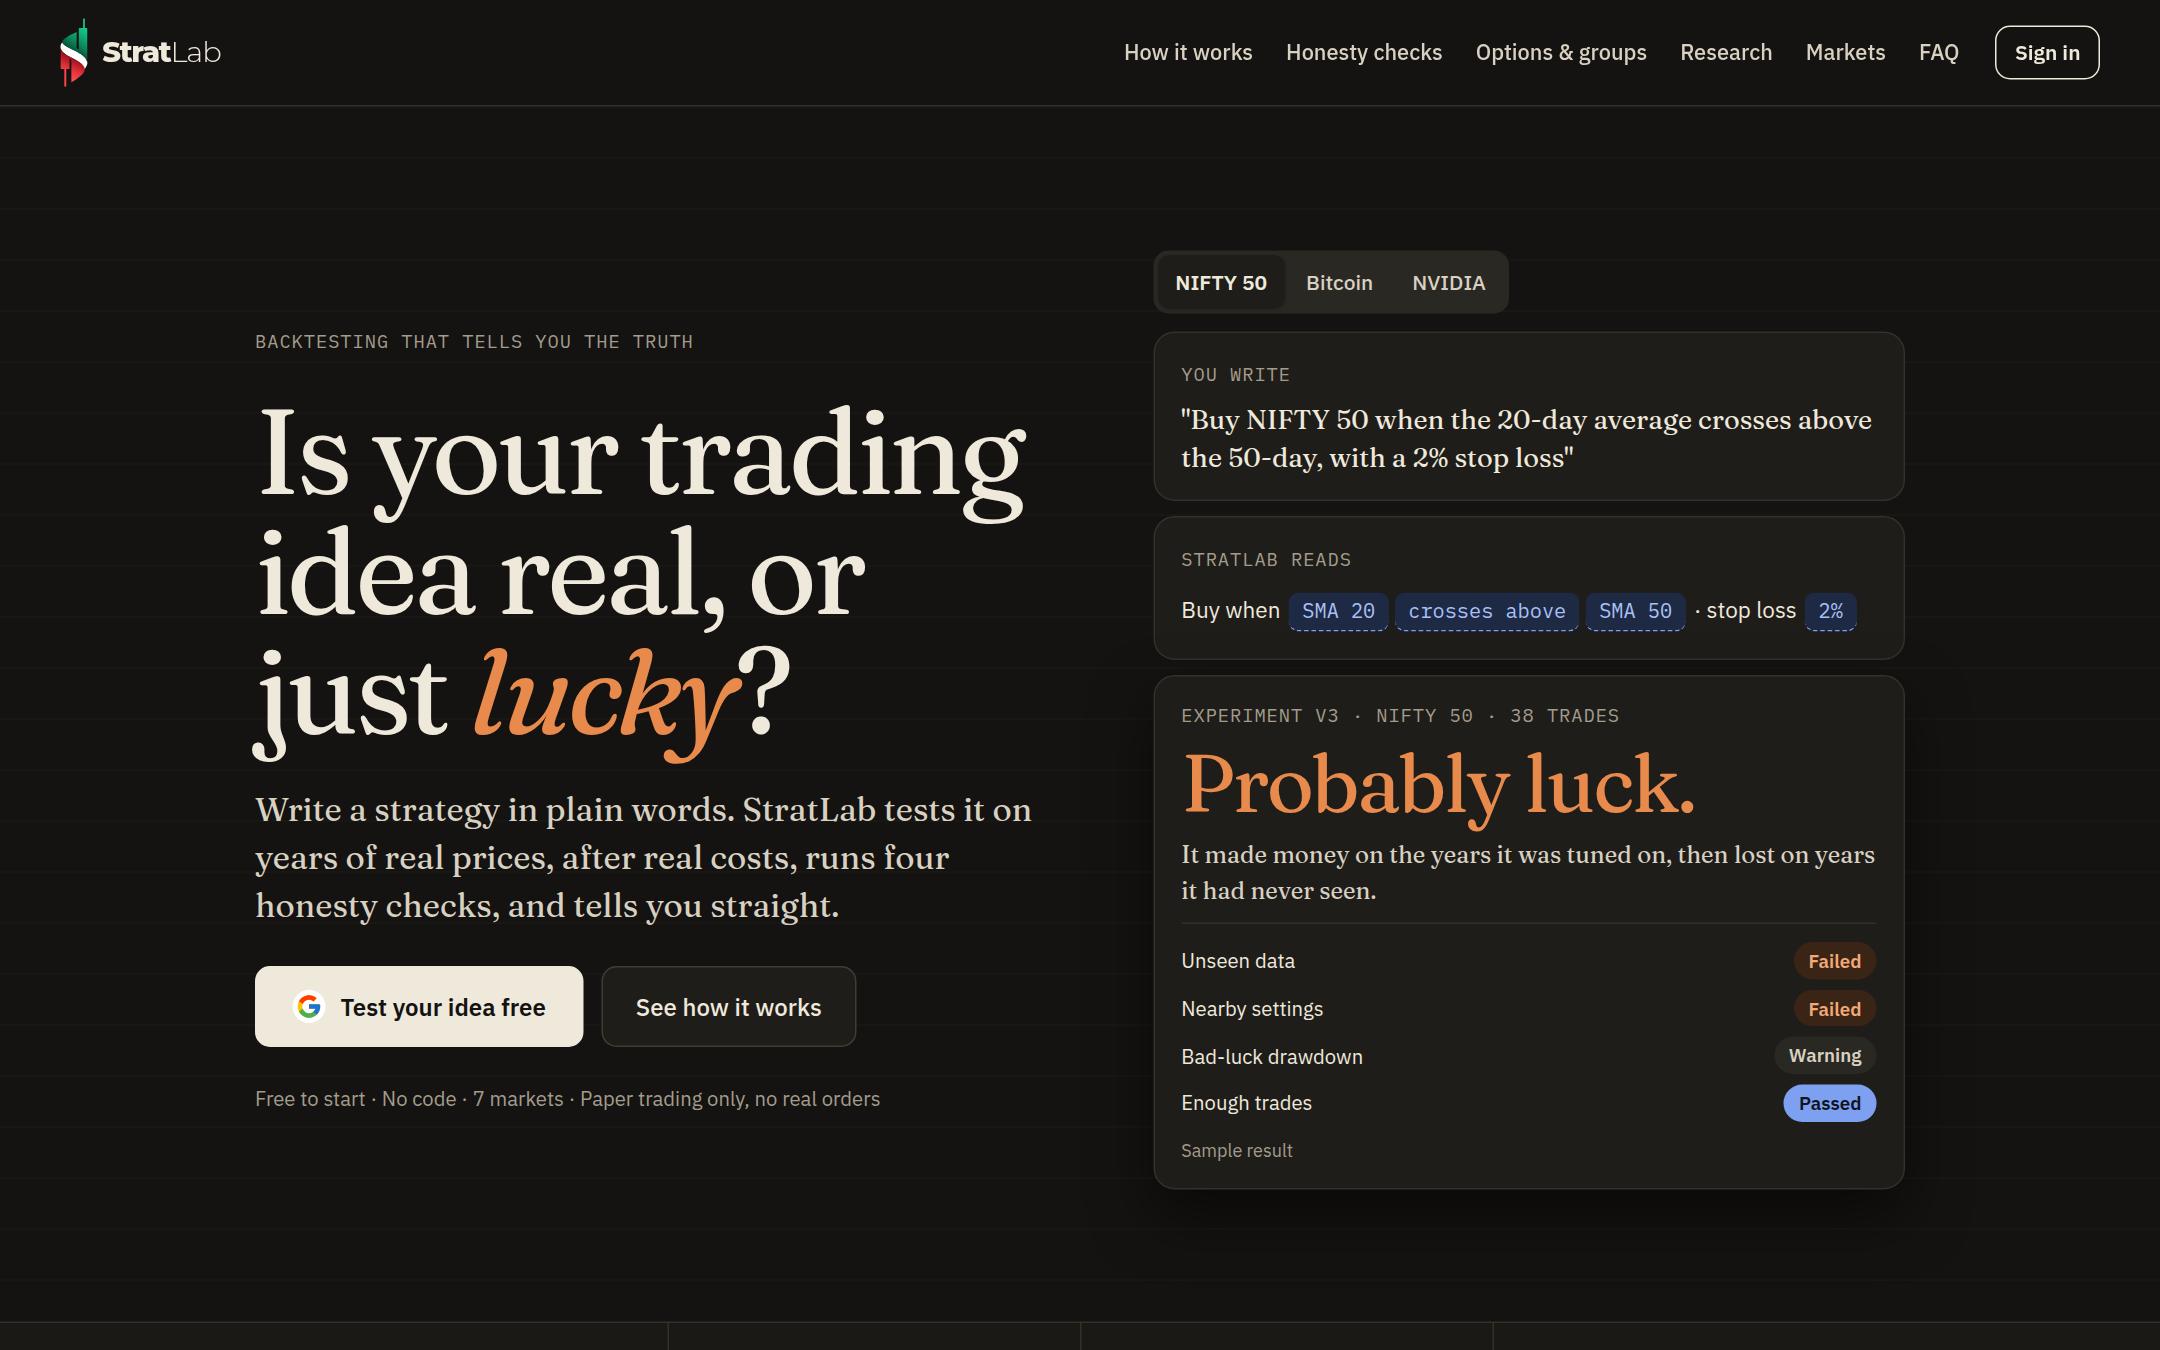
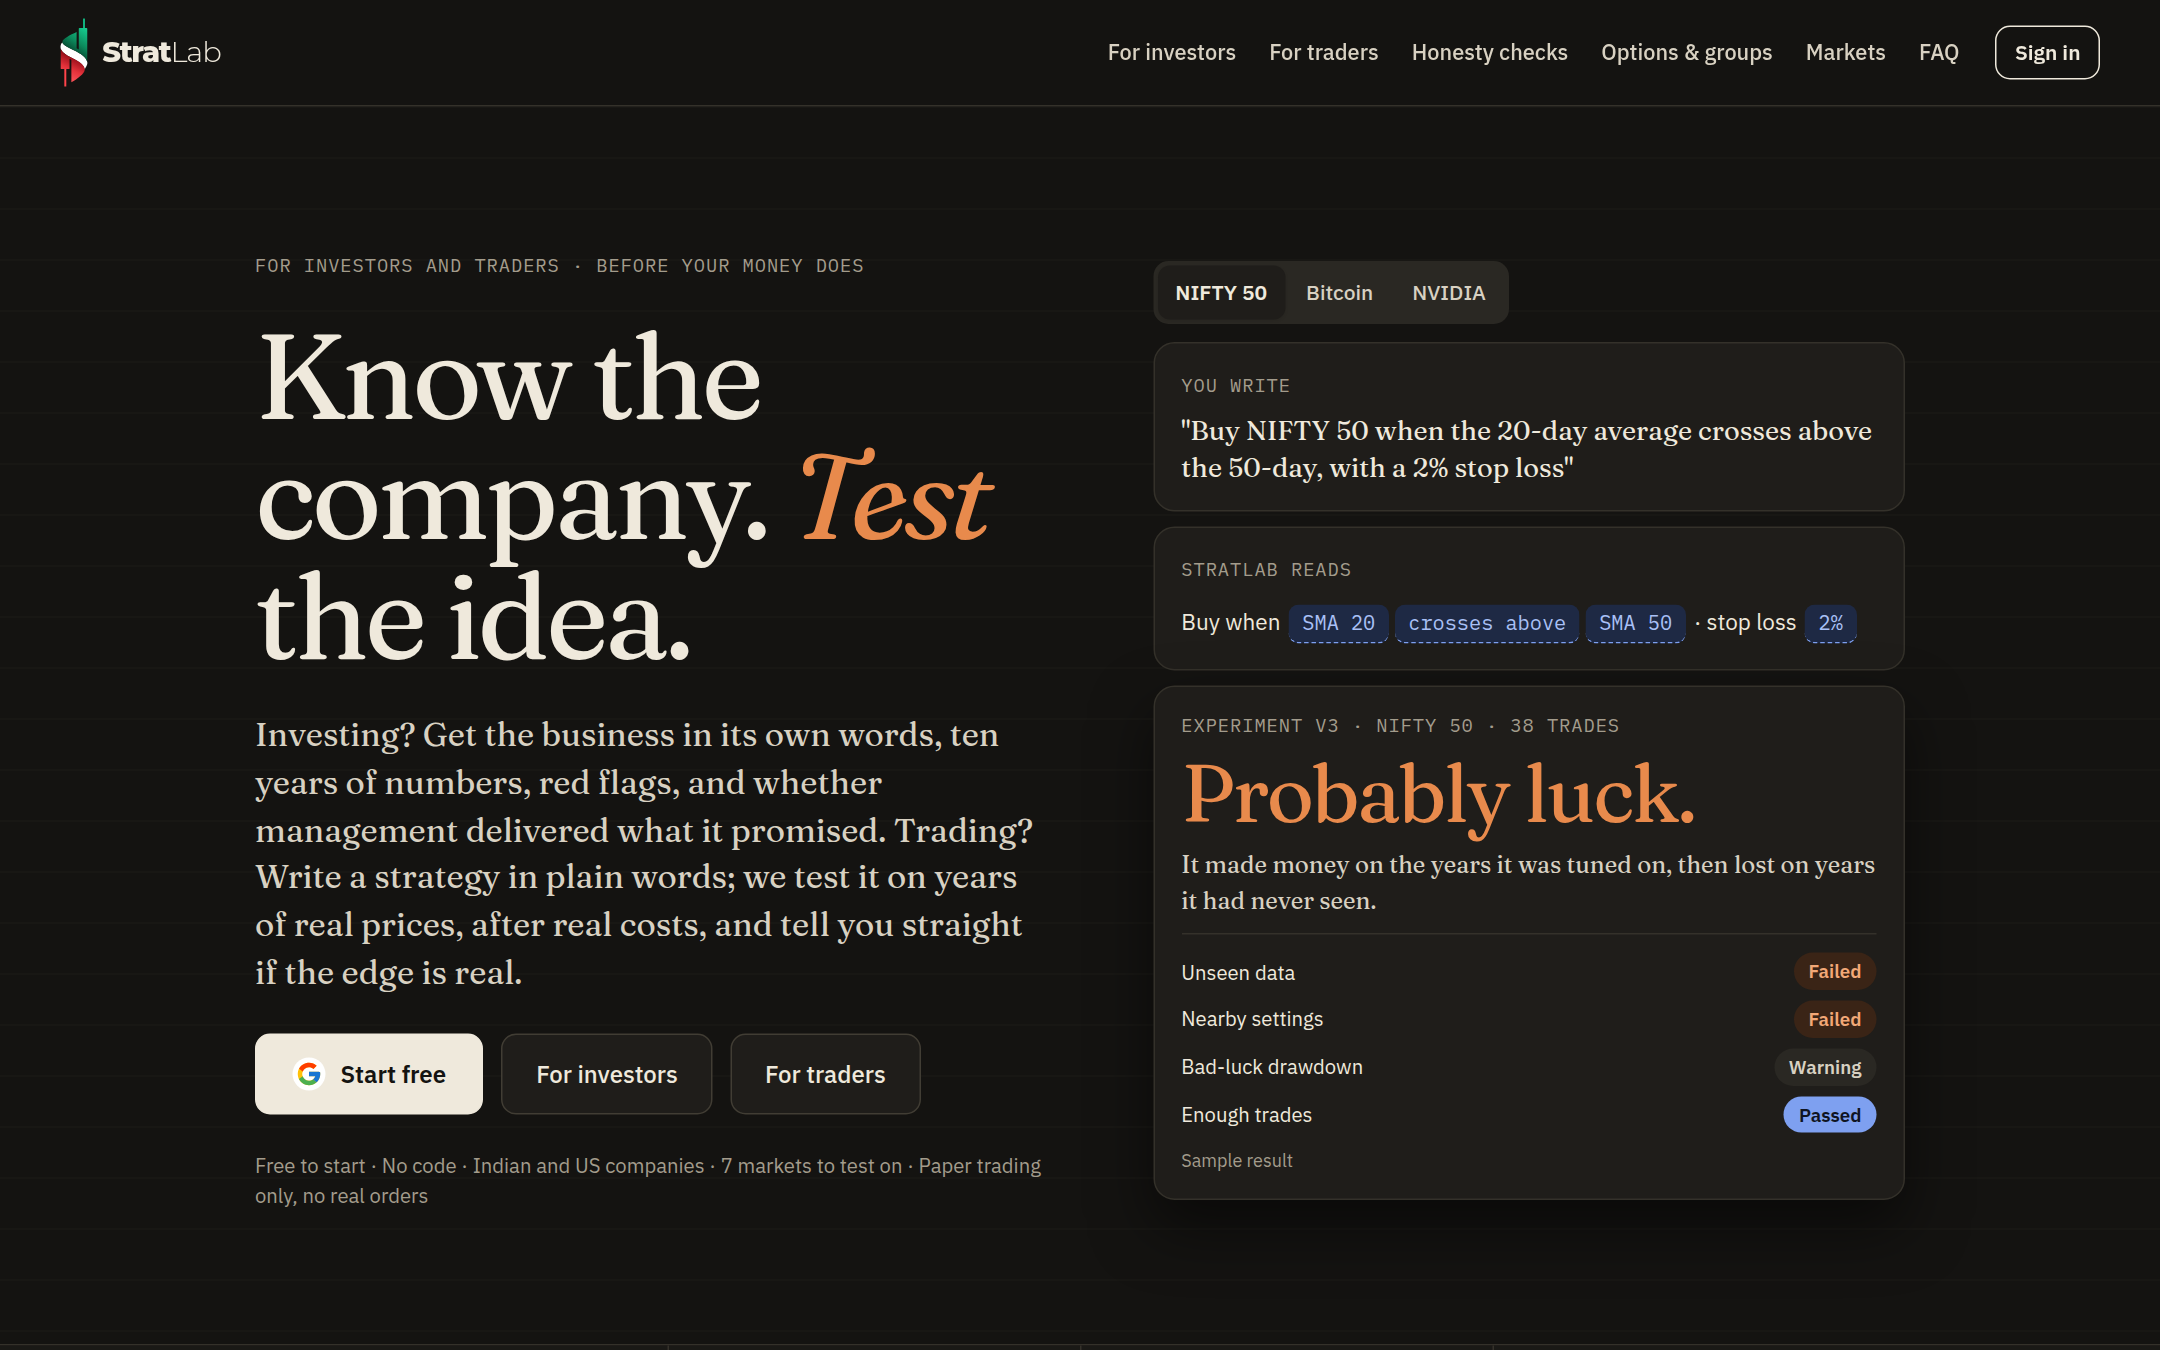
Landing page for investors and traders
- Hero: 'Know the company. Test the idea.' with For investors / For traders
  buttons and a 'Start free' main button; investor lede first
- Facts band leads with ten years of numbers per Indian company
- Research and investor sections moved up, right after the hero; header
  links follow the new order
- Investor cards: scan and rotation merged, new 'Measured like its industry'
  card, checklist notes industry adjustment
- Page title, description and link preview cover investing; README landing
  screenshot refreshed

Claude-Session: https://claude.ai/code/session_01QCGeNSveSSmNFs12Q4F29N

diff --git a/stratlab/frontend/src/pages/Login.tsx b/stratlab/frontend/src/pages/Login.tsx
@@ -65,12 +65,12 @@ const BEYOND: [string, string, string][] = [
 ];
 
 const INVESTORS: [string, string, string][] = [
-  ["Stage 2 + Supertrend scan", "Which stocks in your watchlist or a ready-made group are in Stage 2 with the Supertrend pointing up, fresh signals first. Backtest the ST S2 rules on the whole group in one click, and get a message after the close when a new one lines up.", "ST S2, with a daily alert"],
-  ["Sector rotation", "Every sector against the market: Leading, Weakening, Lagging or Improving, with the path it took to get there. Click a sector to see its biggest stocks the same way. NSE sectors, S&P 500 sectors and US industries.", "Know where the money is moving"],
+  ["Stage 2 scan and sector rotation", "Which stocks are in Stage 2 with the Supertrend up, fresh signals first, and which sectors are Leading, Weakening, Lagging or Improving against the market, down to their biggest stocks. A daily alert when a new one lines up.", "Know where the money is moving"],
   ["Filings and red flags", "What your watchlist companies told the exchange: fund raises like a QIP or preferential issue, promoter pledges, auditor or director resignations, defaults, regulator action, rating downgrades. A 3-month summary, and an evening alert.", "Read the filing before the chart"],
   ["Company deep dive", "Ten years of sales, margins, capex and free cash flow, then the business model and every capex plan read from the company's own presentations and earnings calls, each linked to its source.", "In the company's own words"],
+  ["Measured like its industry", "A hospital on revenue per occupied bed and occupancy, a bank on NIM and bad loans, a hotel on RevPAR, cement on EBITDA per tonne; valued on EV/EBITDA, price to book or P/E, whichever its industry uses.", "The right yardstick"],
   ["Management report card", "What management said it would deliver on past earnings calls (growth, margins, capex) checked against what the results later showed: met, missed or not due yet.", "Do they deliver?"],
-  ["Checklist, home and deck", "Fixed, written-down checks on growth, quality, debt, cash, promoters, filings and trend; every watchlist company on one investor home; and the whole deep dive as slides.", "All in one place"],
+  ["Checklist, home and deck", "Fixed, written-down checks on growth, quality, debt, cash, promoters, filings and trend, adjusted for the company's industry; every watchlist company on one investor home; and the whole deep dive as slides.", "All in one place"],
 ];
 
 const MARKETS: [string, string, string][] = [
@@ -110,7 +110,7 @@ export function Login() {
   }, []);
 
   const signIn = () => supabase.auth.signInWithOAuth({ provider: "google", options: { redirectTo: location.origin + "/" } });
-  const cta = (label = "Test your idea free") => (
+  const cta = (label = "Start free") => (
     <button className="btn lp-cta" onClick={signIn}><Google />{label}</button>
   );
 
@@ -119,7 +119,7 @@ export function Login() {
       <header className="lp-nav">
         <a href="#top" className="brand" aria-label="StratLab home"><Logo size={46} /></a>
         <nav aria-label="Sections">
-          <a href="#how">How it works</a><a href="#checks">Honesty checks</a><a href="#beyond">Options &amp; groups</a><a href="#research">Research</a><a href="#investors">For investors</a><a href="#markets">Markets</a><a href="#faq">FAQ</a>
+          <a href="#investors">For investors</a><a href="#how">For traders</a><a href="#checks">Honesty checks</a><a href="#beyond">Options &amp; groups</a><a href="#markets">Markets</a><a href="#faq">FAQ</a>
         </nav>
         <button className="btn outline sm" onClick={signIn}>Sign in</button>
       </header>
@@ -127,16 +127,16 @@ export function Login() {
       <section id="top" className="lp-hero ruled">
         <div className="lp-wrap lp-hero-grid">
           <div className="stack" style={{ gap: 24 }}>
-            <span className="eyebrow">Backtesting that tells you the truth</span>
-            <h1 className="serif lp-h1">Is your trading idea real, or just <em>lucky</em>?</h1>
-            <p className="serif lp-lede">Write a strategy in plain words. StratLab tests it on years of real prices, after real costs, runs four honesty checks, and tells you straight.</p>
+            <span className="eyebrow">For investors and traders · Before your money does</span>
+            <h1 className="serif lp-h1">Know the company. <em>Test</em> the idea.</h1>
+            <p className="serif lp-lede">Investing? Get the business in its own words, ten years of numbers, red flags, and whether management delivered what it promised. Trading? Write a strategy in plain words; we test it on years of real prices, after real costs, and tell you straight if the edge is real.</p>
             <div className="row wrap" style={{ gap: 12 }}>
               {cta()}
-              <a className="btn quiet lp-cta-2" href="#how">See how it works</a>
+              <a className="btn quiet lp-cta-2" href="#investors">For investors</a>
+              <a className="btn quiet lp-cta-2" href="#how">For traders</a>
             </div>
-            <a className="link small" href="#investors">Investing for the long term? See the deep dive, management report card and red flags →</a>
             {error && <p className="banner" role="alert">{error}</p>}
-            <p className="small muted">Free to start · No code · 7 markets · Paper trading only, no real orders</p>
+            <p className="small muted">Free to start · No code · Indian and US companies · 7 markets to test on · Paper trading only, no real orders</p>
           </div>
           <HeroDemo />
         </div>
@@ -144,11 +144,43 @@ export function Login() {
 
       <section className="lp-band">
         <div className="lp-wrap lp-facts">
-          {[["4", "honesty checks on every test"], ["7", "markets, plus your own data"], ["20+", "indicators, long or short"], ["₹0", "to start, no card needed"]].map(([n, t]) => (
+          {[["10 yrs", "of numbers on every Indian company"], ["4", "honesty checks on every strategy test"], ["7", "markets to test on, plus your own data"], ["₹0", "to start, no card needed"]].map(([n, t]) => (
             <div key={t}><b className="serif">{n}</b><span>{t}</span></div>
           ))}
         </div>
       </section>
+
+      <section id="research" className="lp-sec">
+        <div className="lp-wrap lp-split">
+          <div className="stack" style={{ gap: 14 }}>
+            <span className="eyebrow">Research</span>
+            <h2 className="serif lp-h2">Start with any company, Indian or US.</h2>
+            <p className="lp-p">Look up any Indian or US company: price, key numbers, results against estimates, analyst ratings, insider trades and news. An AI read scores it, lays out the bull and bear case, and ends with three ideas you can test in one click.</p>
+            <ul className="bullets lp-p" style={{ fontSize: 16 }}>
+              <li><b>Themes:</b> map a sector and get a ranked shortlist.</li>
+              <li><b>Market pulse:</b> index levels, headlines and today's mood.</li>
+              <li><b>Compare</b> two companies, and keep a <b>watchlist</b>.</li>
+            </ul>
+          </div>
+          <ResearchMock />
+        </div>
+      </section>
+
+      <section id="investors" className="lp-sec lp-alt">
+        <div className="lp-wrap stack" style={{ gap: 32 }}>
+          <div className="lp-head">
+            <span className="eyebrow">For investors</span>
+            <h2 className="serif lp-h2">Know the company before you own it.</h2>
+            <p className="lp-p">For holding a stock for months or years, not minutes. Everything comes from the company's own filings and reported numbers, every quote is checked against its source, and nothing here tells you what to buy.</p>
+          </div>
+          <div className="lp-beyond">
+            {INVESTORS.map(([t, b, tag]) => (
+              <div key={t} className="card lp-beyond-card"><b>{t}</b><p className="small muted">{b}</p><span className="lp-fix">{tag}</span></div>
+            ))}
+          </div>
+        </div>
+      </section>
+
 
       <section className="lp-sec">
         <div className="lp-wrap lp-split">
@@ -220,37 +252,6 @@ export function Login() {
           </div>
           <div className="lp-beyond">
             {BEYOND.map(([t, b, tag]) => (
-              <div key={t} className="card lp-beyond-card"><b>{t}</b><p className="small muted">{b}</p><span className="lp-fix">{tag}</span></div>
-            ))}
-          </div>
-        </div>
-      </section>
-
-      <section id="research" className="lp-sec">
-        <div className="lp-wrap lp-split">
-          <div className="stack" style={{ gap: 14 }}>
-            <span className="eyebrow">Research</span>
-            <h2 className="serif lp-h2">Don't have an idea yet? Start with a company.</h2>
-            <p className="lp-p">Look up any Indian or US company: price, key numbers, results against estimates, analyst ratings, insider trades and news. An AI read scores it, lays out the bull and bear case, and ends with three ideas you can test in one click.</p>
-            <ul className="bullets lp-p" style={{ fontSize: 16 }}>
-              <li><b>Themes:</b> map a sector and get a ranked shortlist.</li>
-              <li><b>Market pulse:</b> index levels, headlines and today's mood.</li>
-              <li><b>Compare</b> two companies, and keep a <b>watchlist</b>.</li>
-            </ul>
-          </div>
-          <ResearchMock />
-        </div>
-      </section>
-
-      <section id="investors" className="lp-sec lp-alt">
-        <div className="lp-wrap stack" style={{ gap: 32 }}>
-          <div className="lp-head">
-            <span className="eyebrow">For investors</span>
-            <h2 className="serif lp-h2">Not just trades. The whole picture.</h2>
-            <p className="lp-p">Tools for holding a stock for months, not minutes. Facts from prices and filings, and your own rules decide.</p>
-          </div>
-          <div className="lp-beyond">
-            {INVESTORS.map(([t, b, tag]) => (
               <div key={t} className="card lp-beyond-card"><b>{t}</b><p className="small muted">{b}</p><span className="lp-fix">{tag}</span></div>
             ))}
           </div>

diff --git a/stratlab/frontend/index.html b/stratlab/frontend/index.html
@@ -3,8 +3,8 @@
 <head>
 <meta charset="utf-8">
 <meta name="viewport" content="width=device-width, initial-scale=1, viewport-fit=cover">
-<title>StratLab: find out if your trading idea is real</title>
-<meta name="description" content="Describe a trading idea in plain English, backtest it on real market data, and get an honest verdict: real edge or luck.">
+<title>StratLab: know the company, test the idea</title>
+<meta name="description" content="For investors: a company's business in its own words, ten years of numbers, red flags and whether management delivered. For traders: test an idea on real prices after real costs and get an honest verdict.">
 <meta name="theme-color" content="#F5F1E8">
 <link rel="icon" href="/favicon.svg" type="image/svg+xml">
 <link rel="apple-touch-icon" href="/apple-touch-icon.png">
@@ -15,8 +15,8 @@
 <meta name="apple-mobile-web-app-status-bar-style" content="default">
 <meta property="og:type" content="website">
 <meta property="og:site_name" content="StratLab">
-<meta property="og:title" content="StratLab: find out if your trading idea is real">
-<meta property="og:description" content="Describe a trading idea in plain English, test it on real market data after real costs, and get an honest verdict: real edge or luck.">
+<meta property="og:title" content="StratLab: know the company, test the idea">
+<meta property="og:description" content="Deep dives, red flags and a management report card for investors; honest backtests and paper trading for traders. Facts, not tips.">
 <meta property="og:url" content="https://stratlab.studio/">
 <meta property="og:image" content="https://stratlab.studio/og-image.png">
 <meta property="og:image:width" content="1200">

diff --git a/CHANGELOG.md b/CHANGELOG.md
@@ -9,6 +9,7 @@
 - **The home page is grouped by goal** (find stocks, understand a company, test an idea, trade with fake money) instead of a wall of equal cards.
 - **Search understands investor questions:** "deep dive Apollo Hospitals", "which sectors are leading?", "red flags in my watchlist", "Stage 2 stocks in NIFTY 50" and "compare TCS and Infosys" open the right page directly.
 - **Placeholders show real examples,** rotating every few seconds and matched to what you came for, instead of "Search…".
+- **The landing page speaks to both:** "Know the company. Test the idea.", with For investors and For traders buttons, the research and investor sections moved up to follow the opening, a card on industry measures and valuation, and a page title and link preview that cover investing too.
 - **The next step where you need it:** a Deep dive link on every scan result and every red-flag company; on a company page, Deep dive comes first for investors.
 
 ## September 2026

diff --git a/README.md b/README.md
@@ -206,7 +206,7 @@ New here? A short tour pops up the first time you sign in. You can reopen it any
 
 <picture>
   <source media="(prefers-color-scheme: dark)" srcset="docs/images/landing-dark.png">
-  <img alt="The landing page: 'Is your trading idea real, or just lucky?', with an example idea, the rules StratLab reads from it, and its verdict" src="docs/images/landing-light.png">
+  <img alt="The landing page: 'Know the company. Test the idea.', for investors and traders, with an example idea, the rules StratLab reads from it, and its verdict" src="docs/images/landing-light.png">
 </picture>
 
 <sub>Screenshots use synthetic sample prices, not real market data.</sub>
